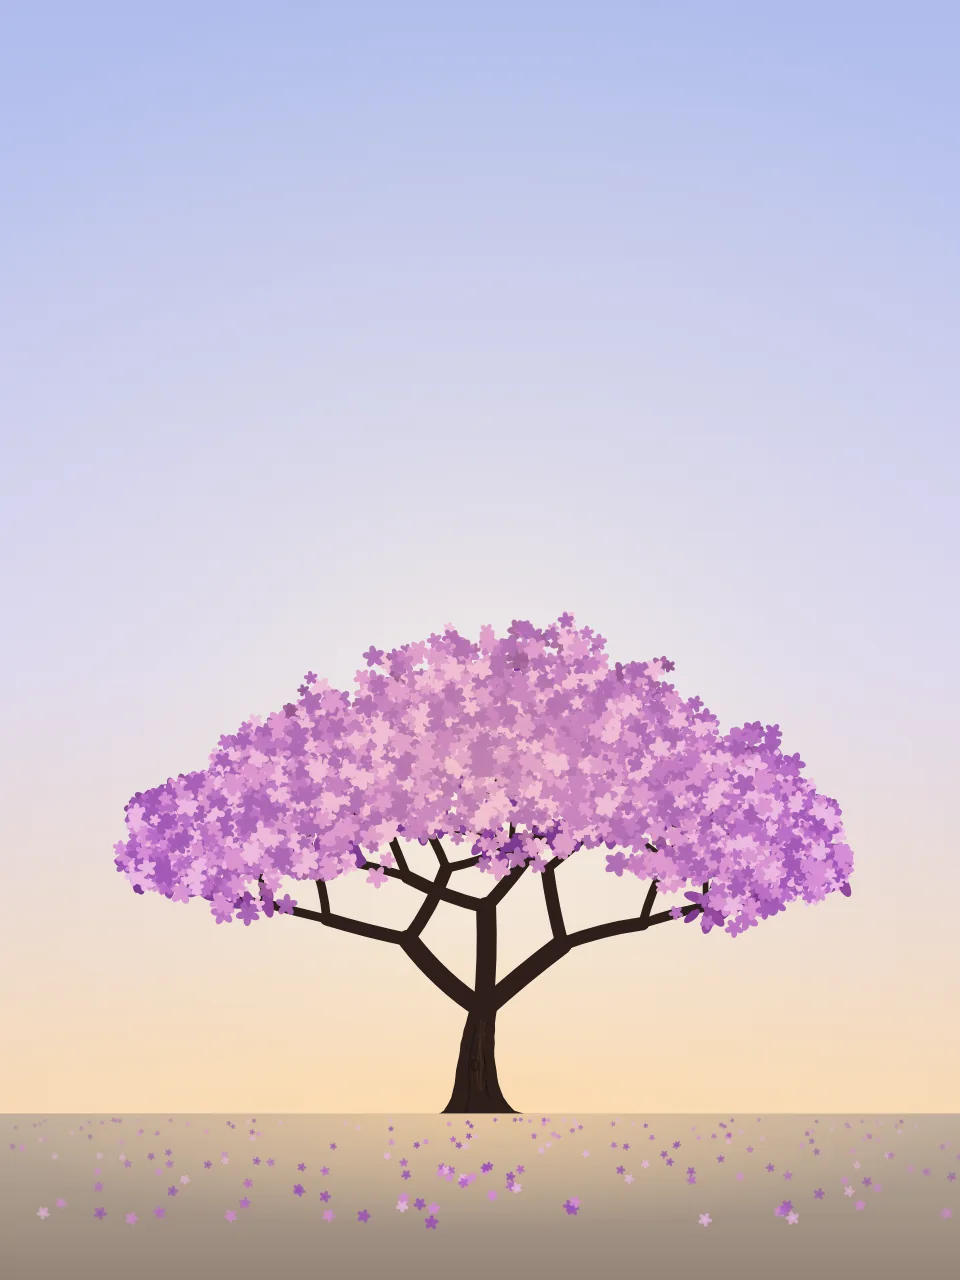
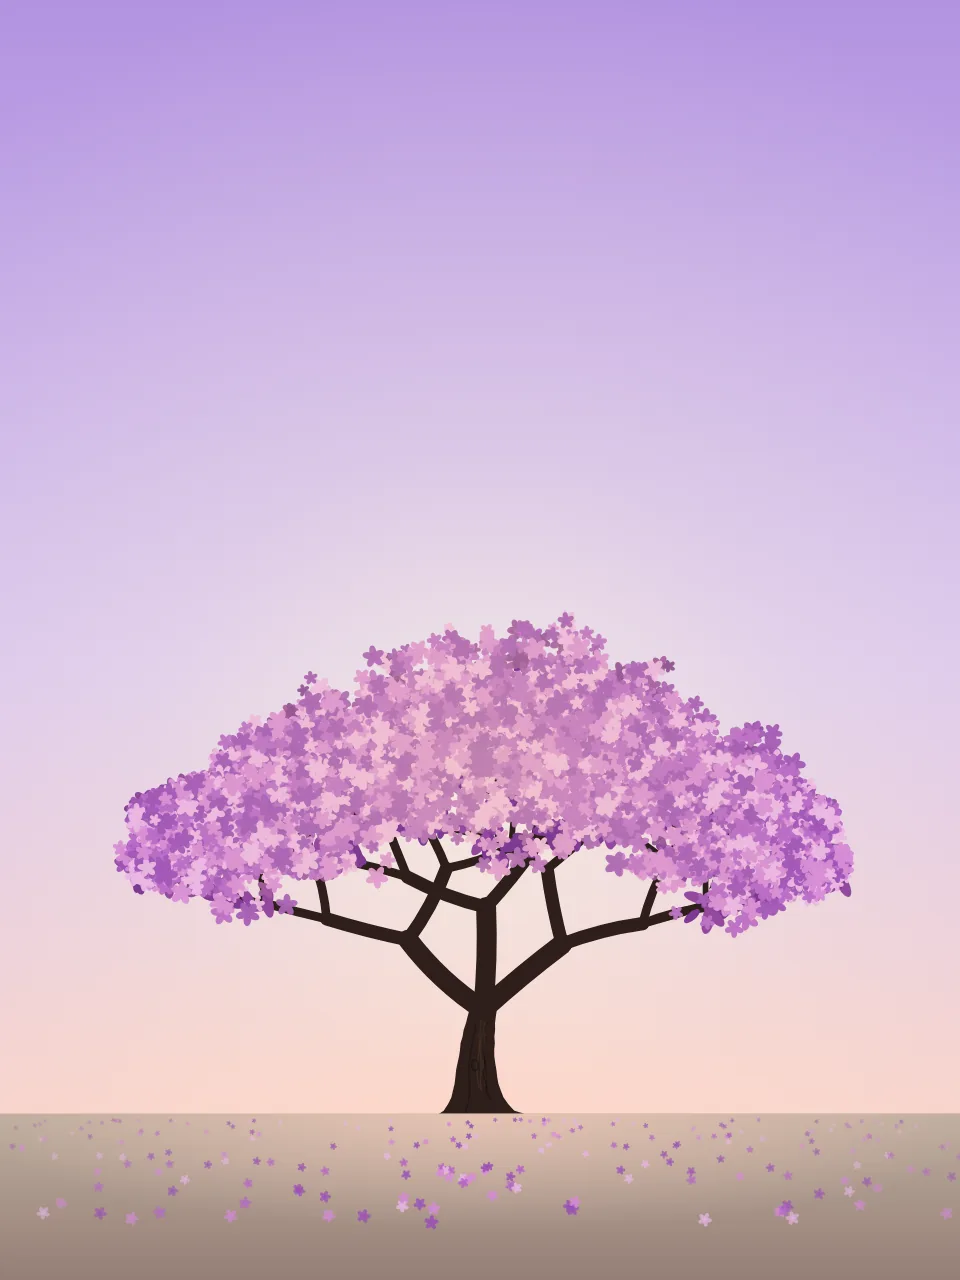
Color de cada semana a la vista: «● Semana negra» en la portada; cielos de día más claros de identificar para Negro (grafito) y Lila (violeta)
Claude-Session: https://claude.ai/code/session_01Q7t98yhsy4681UtzsgGtic

Changed region(s): [[0.0, 0.0, 1.0, 0.3125], [0.2188, 0.8125, 0.4688, 0.875], [0.5312, 0.8125, 0.75, 0.875]]

diff --git a/public/js/tree.js b/public/js/tree.js
@@ -11,7 +11,7 @@
   //   glow       : luz del halo detrás de la copa · bark: color del tronco
   const TREES = {
     Lila: { name: 'Lapacho morado', sci: 'Handroanthus impetiginosus', accent: '#c9a0f0', mid: '#9b59b6', ink: ['#b565c9', '#d58ad8'],
-      bg: { top: '#1c102b', mid: '#2d1946', low: '#3b1d4d', warm: '#b84a15' }, day: { top: '#aebcec', mid: '#d6d2f2', low: '#efe6f7', warm: '#ffd6a0' }, glow: '#a58cf0', bark: '#2d1f1b' },
+      bg: { top: '#1c102b', mid: '#2d1946', low: '#3b1d4d', warm: '#b84a15' }, day: { top: '#b393e0', mid: '#d6c2f0', low: '#f0e6fa', warm: '#ffd3c2' }, glow: '#a58cf0', bark: '#2d1f1b' },
     Azul: { name: 'Jacarandá', sci: 'Jacaranda mimosifolia', accent: '#a9b0fa', mid: '#6a6cc9', ink: ['#6a6cc9', '#9aa0ec'],
       bg: { top: '#0a1030', mid: '#152262', low: '#1c2b72', warm: '#b0572a' }, day: { top: '#9cc0ee', mid: '#c9dcf6', low: '#e5eef9', warm: '#ffdcaa' }, glow: '#8497ff', bark: '#2d1f1b' },
     Rojo: { name: 'Flamboyán', sci: 'Delonix regia', accent: '#ff8e7b', mid: '#d4392a', ink: ['#d42a18', '#ef5a44'],
@@ -23,7 +23,7 @@
     Verde: { name: 'Árbol en hoja nueva', sci: '', accent: '#98d878', mid: '#4e9a3b', ink: ['#4e9a3b', '#86c25a'],
       bg: { top: '#07201a', mid: '#0f3a2c', low: '#175038', warm: '#9a7a1c' }, day: { top: '#a9d8be', mid: '#d3ebdc', low: '#ecf6ef', warm: '#ffe9a6' }, glow: '#74cf8a', bark: '#2d1f1b' },
     Negro: { name: 'Silueta al atardecer', sci: '', accent: '#e3cfa2', mid: '#8c7b5c', ink: ['#a8997f', '#e3cfa2'],
-      bg: { top: '#09080d', mid: '#16131c', low: '#241d26', warm: '#7a4a1c' }, day: { top: '#cdc5b8', mid: '#e3ddd2', low: '#f1ece4', warm: '#efc58c' }, glow: '#9a6a3c', bark: '#0a0608' },
+      bg: { top: '#09080d', mid: '#16131c', low: '#241d26', warm: '#7a4a1c' }, day: { top: '#7f7a80', mid: '#b2adb0', low: '#e2dedb', warm: '#e8c08e' }, glow: '#9a6a3c', bark: '#0a0608' },
   };
 
   // Flor sola en SVG, para el progreso del año y el tablero.

diff --git a/public/js/app.js b/public/js/app.js
@@ -460,13 +460,23 @@
     h.appendChild(el('small', null, sub));
   }
 
+  const COLOR_ADJ = { Negro: 'negra', Rojo: 'roja', Azul: 'azul', Lila: 'lila', Verde: 'verde', Amarillo: 'amarilla', Blanco: 'blanca' };
+  const COLOR_DOT = { Negro: '#141018', Rojo: '#d4392a', Azul: '#5a5fd0', Lila: '#9b59b6', Verde: '#4e9a3b', Amarillo: '#e8a90c', Blanco: '#ffffff' };
   function renderWeekBar() {
     const wk = weekAt(Y, viewing);
     const t = Y.themes[wk.col];
     const yi = yearIndex(Y.year);
     const tree = treeOf(t.name);
     $('weekNum').textContent = weekName(viewing) + (YEARS.length > 1 ? ' · ' + Y.year : '');
-    $('weekSub').textContent = t.name + ' · ' + wk.dates;
+    // El color de la semana, dicho y mostrado: «● Semana negra · 17 al 23 · enero».
+    const sub = $('weekSub');
+    sub.textContent = '';
+    const dot = el('i', 'week-dot');
+    dot.style.background = COLOR_DOT[t.name] || tree.mid;
+    sub.appendChild(dot);
+    sub.appendChild(el('span', 'week-color', 'Semana ' + (COLOR_ADJ[t.name] || t.name.toLowerCase())));
+    sub.appendChild(document.createTextNode(' · '));
+    sub.appendChild(el('span', 'week-dates', wk.dates));
     const tn = $('treeName');
     tn.textContent = tree.name;
     if (tree.sci) tn.appendChild(el('i', null, tree.sci));

diff --git a/public/css/app.css b/public/css/app.css
@@ -566,3 +566,9 @@ a.btn{text-decoration:none;}
 :root[data-theme="day"] :is(.card-text,.today-text,.sunday-hook,.verse,.intent,.res-text,.q-text,.dq-q,.sat-list li,.story,.field-hint,.fold-hint,.note,.grat,.sheet-text,.quick-phrase p,.sum-block p,.diary-text,.ago-day p,.result-text,.mood-note,.streak,.in-play,.eval-pct-label,.tree-name,.word-qs li,.agenda-list li,.modal-box p,.modal-box li){font-weight:400;}
 :root[data-theme="day"] :is(.sunday-title,.week-num,.eval-pct,.sum-big,.modal-box h2,.sheet-head h2,.dim-cap-word,.meter-head output,.diary-doc h1){font-weight:300;}
 :root[data-theme="day"] .signature{color:var(--ink);}
+
+/* Color de la semana en la portada: un punto del color y «Semana negra», sutil */
+.week-dot{display:inline-block;width:10px;height:10px;border-radius:50%;margin-right:8px;vertical-align:1px;border:1px solid rgba(255,255,255,.75);box-shadow:0 0 6px rgba(0,0,0,.35);}
+.week-color{font-weight:500;white-space:nowrap;}
+.week-dates{white-space:nowrap;}
+:root[data-theme="day"] .week-dot{border-color:rgba(13,9,18,.55);box-shadow:none;}

diff --git a/public/sw.js b/public/sw.js
@@ -1,7 +1,7 @@
 // Service worker: guarda la app para abrirla sin conexión.
 // Red primero (así siempre ves la última versión publicada), caché si no hay red.
 // Nunca se guarda /api/: el contenido y los registros viajan con la clave y se guardan en la app.
-const CACHE = 'sunset-v54';
+const CACHE = 'sunset-v55';
 const SHELL = [
   './',
   'index.html',
